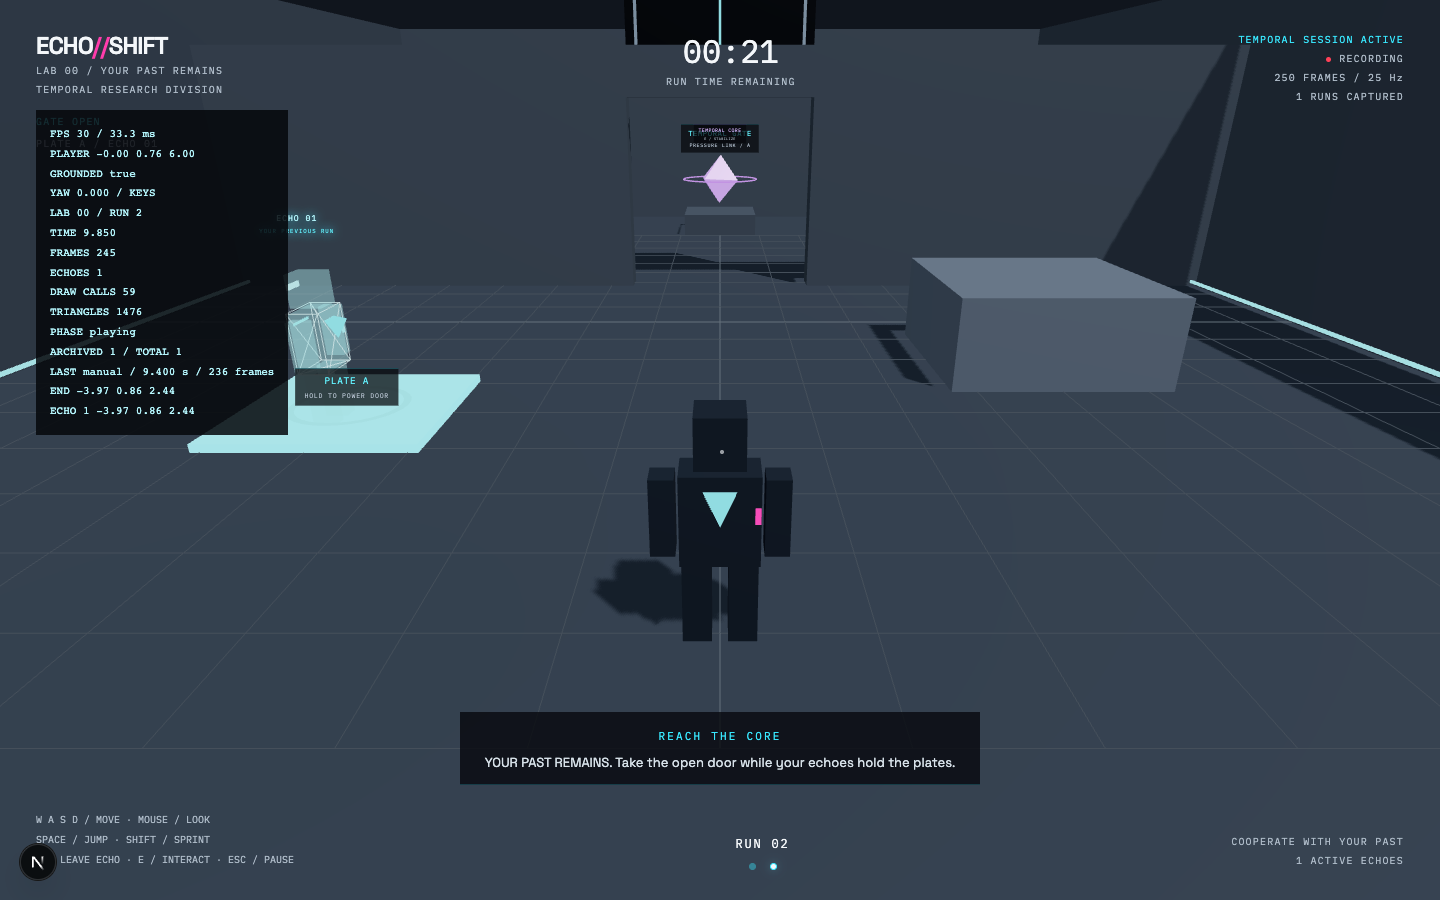
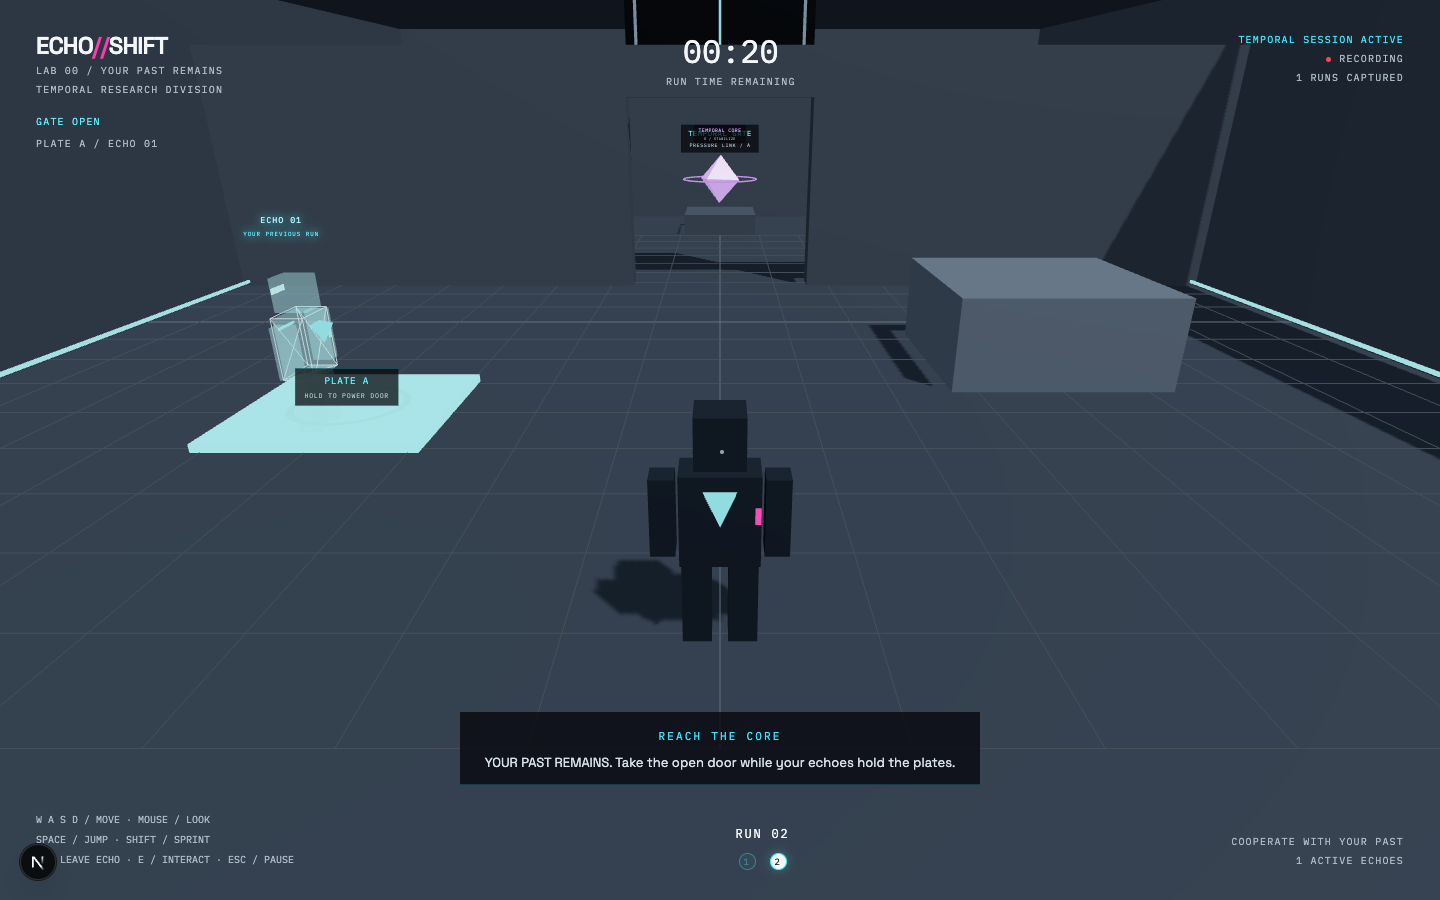
docs: document verified first-chamber vertical slice refinements

Changed region(s): [[0.0, 0.1244, 0.25, 0.4978], [0.9062, 0.0622, 0.9688, 0.1244], [0.5, 0.9022, 0.5625, 0.9644]]

diff --git a/README.md b/README.md
@@ -12,6 +12,8 @@ The mounted game route owns the timeline. Leaving that route ends the session; r
 
 The core mechanic is playable: **record yourself, reset, cooperate with your actual past self, reach the core**. Both chambers have physical gates, shared pressure plates, evolving hints, time limits, and completion screens. The environment remains deliberately simple while the full five-level campaign is developed.
 
+The current vertical-slice pass focuses entirely on the first chamber: forgiving responsive jumps, smooth collision-aware camera follow, staged reset/reveal, numbered real-echo timeline, and original procedural sound feedback. The existing Dual Core chamber remains available, but no levels were added during this pass.
+
 ![An actual recorded echo holds Plate A while the current player approaches the open gate](public/screenshots/cooperation-echo.png)
 
 ![Two previous selves power both plates in Dual Core](public/screenshots/dual-core-echoes.png)
@@ -30,6 +32,8 @@ Implemented:
 - Shared pressure plate occupancy, physical gate collision, contextual E interaction, evolving tutorial hints, and two-chamber progression.
 - Session landing, loading/error screens, controls, HUD, camera settings, reset effect, completion statistics, and desktop-only gameplay notice.
 - Automated unit and real-browser integration checks.
+- Buffered/coyote-time jumping, immediate camera wall retraction, cyan scan materialization, and reduced-motion handling without delaying replay.
+- Gesture-unlocked procedural facility hum, footsteps, landings, plate/gate feedback, reset/reveal, and completion cues, with session-only volume control.
 
 ## Local development
 
@@ -66,7 +70,7 @@ npm run test:browser
 
 The development server starts automatically, or an existing localhost:3000 server is reused. Browser tests use the development-only telemetry panel. They must not target a production server. The renderer needs a working WebGL2 implementation; software renderers can be slower than normal desktop gameplay.
 
-Current verification: strict TypeScript, ESLint, production build, 49 unit tests, and four browser tests. The cooperative browser playthrough solves both chambers in five loops using real keyboard movement, checks closed-door collision, waits for actual echo endpoints, activates both cores, and verifies a clean restart. It does not teleport actors or inject scripted ghost paths.
+Current verification: strict TypeScript, ESLint, production build, 59 unit tests, and four browser tests. The cooperative browser playthrough solves both chambers in five loops using real keyboard movement, checks closed-door collision, reset freeze, reveal messaging, actual echo endpoints, timeline labels, sound controls, both cores, and a clean restart. It does not teleport actors or inject scripted ghost paths.
 
 ## Controls
 
@@ -81,7 +85,7 @@ Current verification: strict TypeScript, ESLint, production build, 49 unit tests
 | Esc | Pause and release mouse |
 | Backtick | Development-only telemetry |
 
-The pause panel includes sensitivity, invert Y, reduced camera motion, current-run reset, and confirmed timeline restart. Music/SFX/graphics controls are deferred until their systems exist.
+The pause panel includes sensitivity, invert Y, reduced camera motion, sound volume (zero mutes), current-run reset, and confirmed timeline restart. Separate music/SFX buses and graphics presets are deferred until their systems exist.
 
 ## Architecture
 
@@ -113,6 +117,10 @@ The game runtime owns frame-level mutable data. React manages structure and phas
 
 The phase machine rejects invalid transitions. Blur, pointer-lock loss, and hidden tabs pause simulation and clear held inputs. A reset freezes simulation, captures once, waits 1.2 seconds, resets the player/clock/recorder, and resumes only if mouse capture and document visibility are intact.
 
+Reset presentation fades to an opaque curtain before replacing the world, then reveals it smoothly. The newest echo's cyan scan/opacity reveal uses elapsed simulation seconds and never delays or offsets its recorded movement or puzzle occupancy. Reduced motion removes the scan/flicker and caption animation.
+
+Sound is synthesized locally with Web Audio oscillators and short gain envelopes. Plate cues pan relative to the camera; footsteps depend on actual distance travelled, not just held input. A maximum of twelve transient voices prevents accumulation. Pauses fade the mix to silence; leaving the game closes the audio context. These are original procedural cues, not final mastered audio or a soundtrack.
+
 ## Recording design
 
 Physics supplies timestamped observations. The recorder resamples between adjacent observations onto exact `sampleIndex / 25` timestamps, using linear position/velocity interpolation and shortest-arc quaternion slerp. It does not attach an old timestamp to a newer position or assume render FPS matches sampling FPS.
@@ -131,11 +139,12 @@ Completed recordings retain only plain serializable numbers and labels, never Th
 - Imperative transform/model animation updates; no per-frame React state updates.
 - A single shadow-casting light, capped 1.5 DPR, modest shadow resolution, and primitive geometry.
 - Reused camera vectors/raycaster and recorder quaternion scratch objects.
+- Reused camera intersection results, skipped unchanged projection updates, and allocation-free shared hologram opacity updates.
 - Bounded archive memory and cleaned-up input listeners, timers, and Rapier character controller.
 - Lazy-loaded game renderer. No remote models/textures are needed to initialize gameplay.
 - Cosmetic Google web fonts have system fallbacks; simulation has no external API dependency.
 
-60 FPS with the final environment and multiple echoes is a target, not a measured claim for this foundation. Broad GPU/browser profiling belongs to Phase 11.
+60 FPS with the final environment and multiple echoes is a target, not a measured claim for this prototype. Broad GPU/browser profiling remains outstanding.
 
 ## Deployment
 
@@ -144,10 +153,11 @@ Import the repository into Vercel as a Next.js project. The normal `npm run buil
 ## Known limitations and next milestones
 
 - Two chambers are playable. The remaining cube relay, timed security, and final multi-echo choreography are still to be built.
-- Final facility art, spatial audio, postprocessing, and advanced reset effects remain unfinished.
+- Final facility art, mastered/spatial audio, a soundtrack, and postprocessing remain unfinished. Current procedural cues and reset/reveal effects are implemented.
 - Primitive operative and laboratory are intentional replaceable grey-box assets.
 - Desktop Chromium has been exercised; Safari/Firefox/Edge validation remains outstanding.
 - Current R3F emits one upstream Three.js Clock deprecation warning; Rapier emits one WASM initializer deprecation warning. These are not application errors and are not suppressed.
+- Development route teardown also reports a React synchronous-unmount warning from Drei Html's nested DOM-root cleanup. Route disposal/re-entry passes without uncaught errors; this dependency warning remains documented.
 - Mobile gameplay is intentionally unavailable. WebGL2 is the current Three.js baseline.
 
 See [PROGRESS.md](PROGRESS.md) for milestone status and architecture decisions. Git commits preserve the verified development sequence.

diff --git a/PROGRESS.md b/PROGRESS.md
@@ -1,7 +1,7 @@
 # ECHO//SHIFT — development log
 
 ## Completed
-- Removed per-sample replay closures/temporary rotation objects and reused camera intersection storage. Full 30-second playback is tested at irregular timestamps and rewind while preserving pose storage. TypeScript, lint, 59 unit tests, and production build pass; final browser regressions are running.
+- Removed per-sample replay closures/temporary rotation objects and reused camera intersection storage. Full 30-second playback is tested at irregular timestamps and rewind while preserving pose storage. Final validation passes: TypeScript, lint, 59 unit tests, production build, and all four real-browser checks.
 - Vertical-slice temporal presentation: staged opaque reset curtain and reveal fade, newest-echo cyan scan/opacity materialization, first-reveal messaging, and numbered timeline entries reflecting actual retained recordings. Presentation never delays recorded movement or shared occupancy; reduced motion removes scan/flicker/caption animation. Browser checks now verify reset freeze, reveal messaging, timeline labels, and sound volume. TypeScript, lint, 58 unit tests, production build, and all four browser tests pass.
 - Original Web Audio feedback for footsteps, landing, plate edges, gate changes, temporal reset, echo appearance, core completion, and a quiet facility hum. Audio starts only on a user gesture, pauses/mutes with simulation, caps transient voices at twelve, and disposes on route exit. Existing pause panel has a session-only volume slider. Validation: 56 unit tests, TypeScript, lint, production build, and all four real-browser checks pass.
 - Vertical-slice movement pass: 90ms coyote time, 120ms jump buffering, reset cleanup, smoothed camera aim, immediate wall retraction, and projection updates only when FOV changes. TypeScript, lint, and 51 unit tests pass.
@@ -32,7 +32,7 @@
 - Browser verification covers recorded frame growth, manual capture, exact 30.000-second/751-frame timeout capture, restart confirmation, client-route re-entry, refresh collapse, and mobile fallback.
 
 ## Currently working
-- Polish the first chamber's reset, actual echo reveal, sound feedback, and HUD. No additional levels or campaign mechanics in this pass.
+- First-chamber vertical-slice refinement delivered and verified. No additional levels or campaign mechanics were added. Next work should be playtesting/tuning this slice before increasing complexity.
 
 ## Remaining
 - Reusable switches, cube relay, security timing, and remaining campaign levels.
